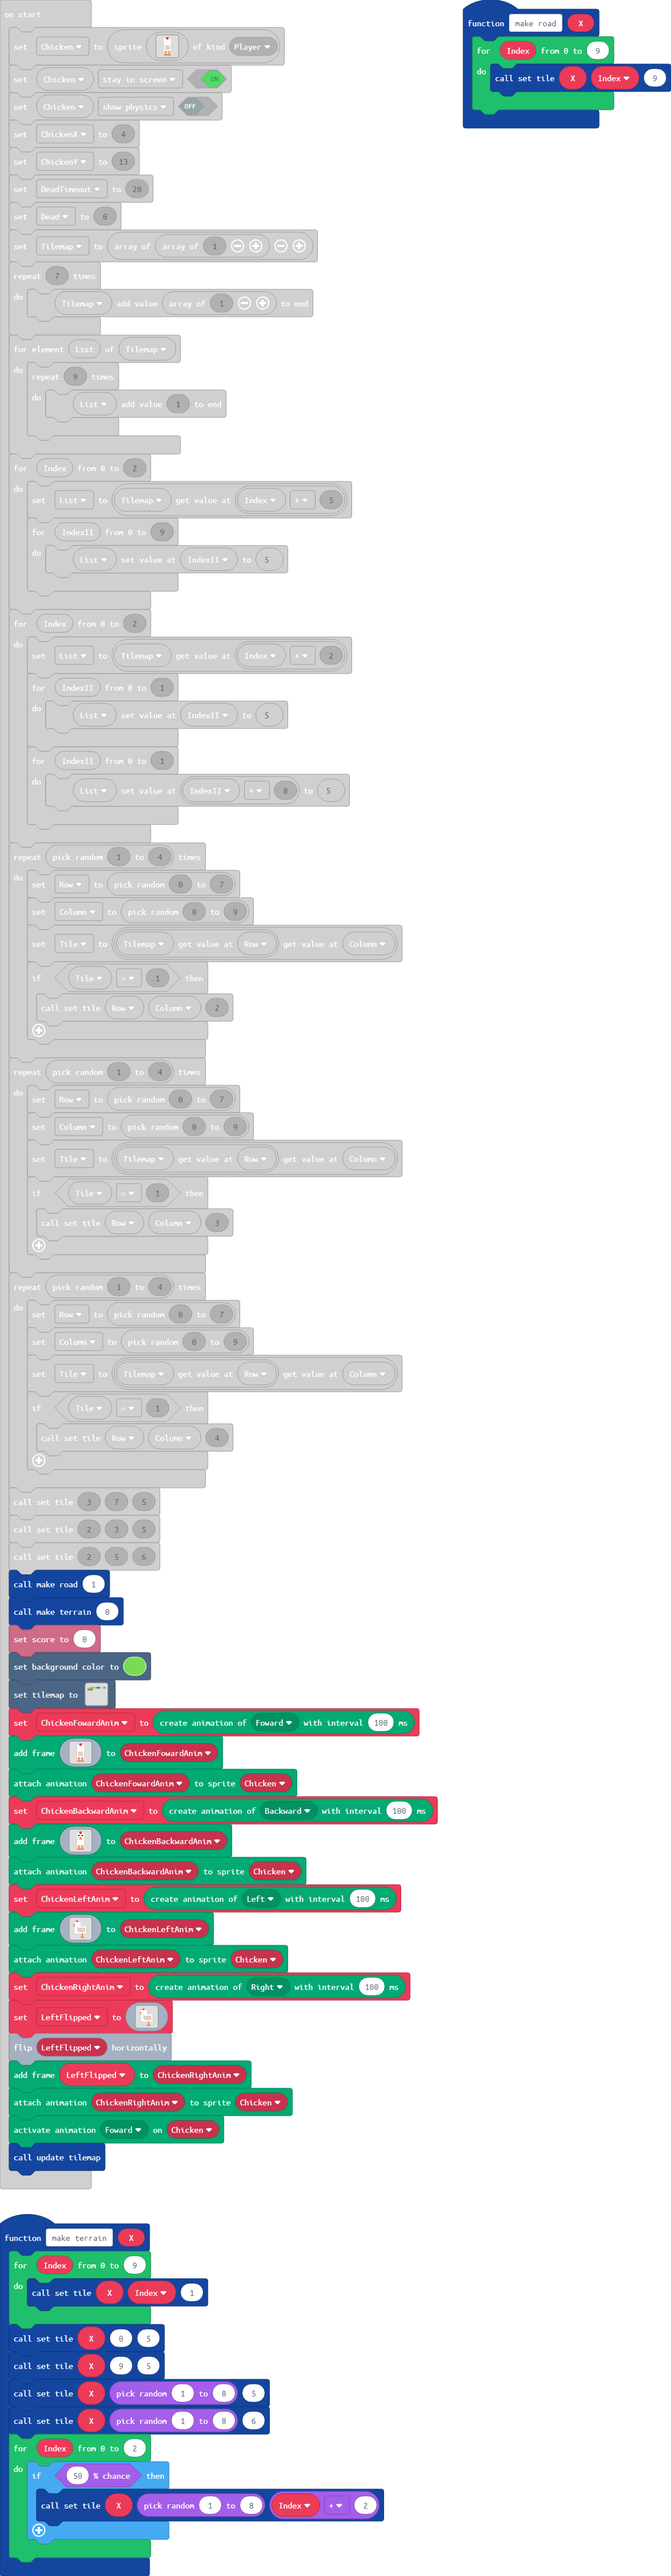
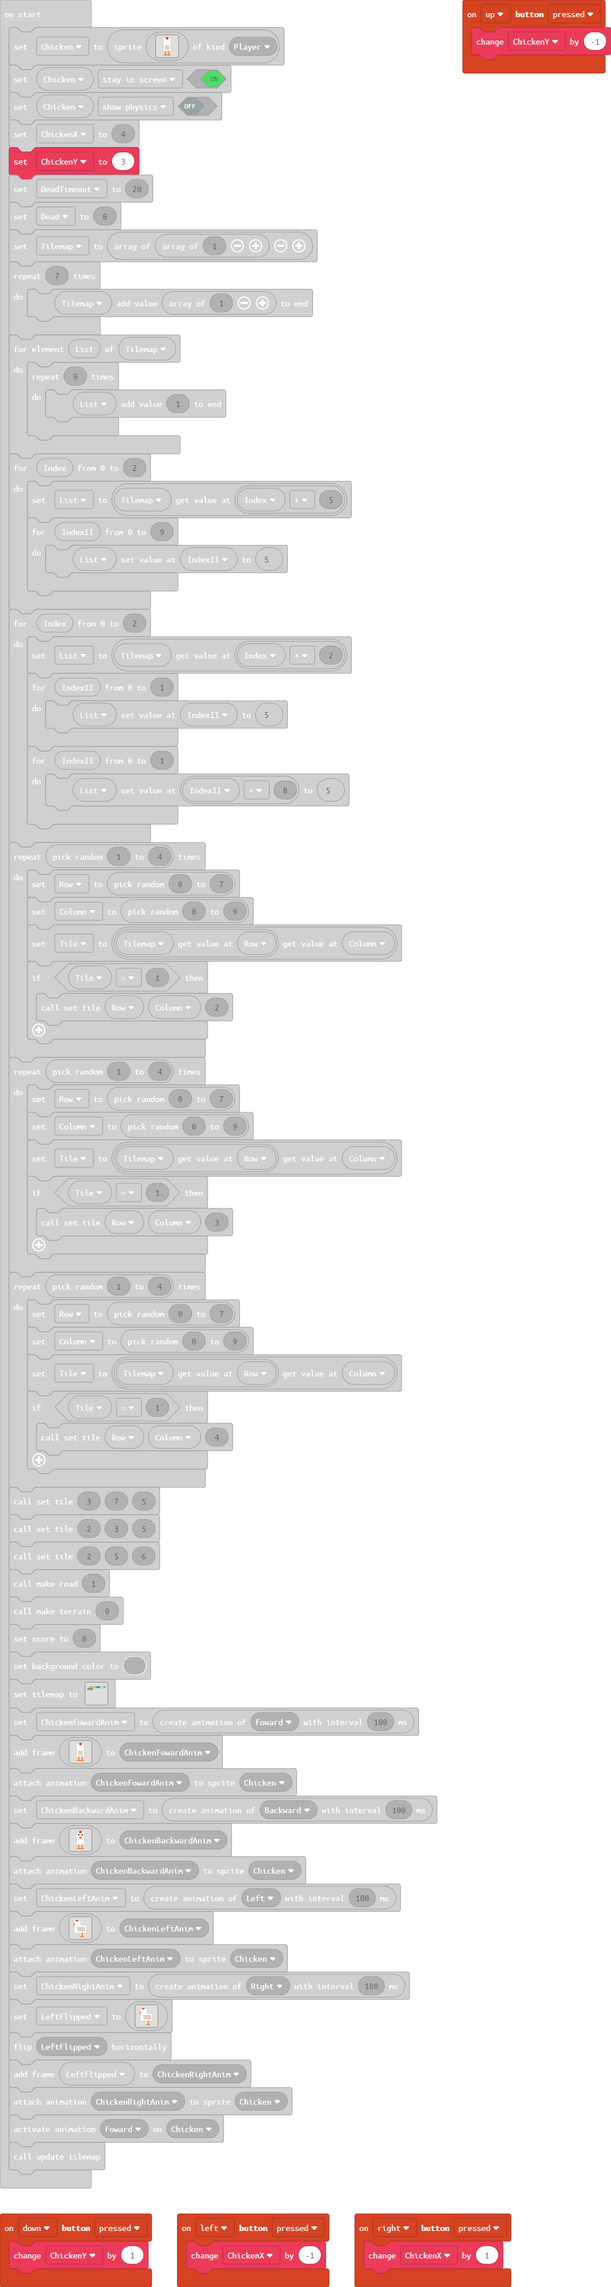
Added controls to change variables

diff --git a/main.ts b/main.ts
@@ -142,11 +142,6 @@ e 7 d d e e d d f 2 f d e e d d
 7 7 7 7 7 7 7 7 7 7 7 7 7 7 7 7 
 `
 }
-function make_road (X: number) {
-    for (let Index = 0; Index <= 9; Index++) {
-        set_tile(X, Index, 9)
-    }
-}
 function make_terrain (X: number) {
     for (let Index = 0; Index <= 9; Index++) {
         set_tile(X, Index, 1)
@@ -161,9 +156,26 @@ function make_terrain (X: number) {
         }
     }
 }
+controller.left.onEvent(ControllerButtonEvent.Pressed, function () {
+    ChickenX += -1
+})
+controller.down.onEvent(ControllerButtonEvent.Pressed, function () {
+    ChickenY += 1
+})
+controller.right.onEvent(ControllerButtonEvent.Pressed, function () {
+    ChickenX += 1
+})
 function set_tile (X: number, Y: number, TileNum: number) {
     List = Tilemap[X]
     List[Y] = TileNum
+}
+controller.up.onEvent(ControllerButtonEvent.Pressed, function () {
+    ChickenY += -1
+})
+function make_road (X: number) {
+    for (let Index = 0; Index <= 9; Index++) {
+        set_tile(X, Index, 9)
+    }
 }
 function update_tilemap () {
     Tile = 0
@@ -228,7 +240,7 @@ let Chicken = sprites.create(img`
 Chicken.setFlag(SpriteFlag.StayInScreen, true)
 Chicken.setFlag(SpriteFlag.ShowPhysics, false)
 let ChickenX = 4
-let ChickenY = 13
+let ChickenY = 3
 let DeadTimeout = 20
 let Dead = 0
 Tilemap = [[1]]
